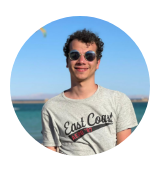
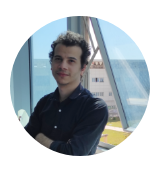
adding labels to charts and team to landing page

diff --git a/src/components/dashboard/dashboard.js b/src/components/dashboard/dashboard.js
@@ -150,30 +150,78 @@ function Dashboard({ auth, profile }) {
             </Grid>
             <Grid item xs={12} sm={12} md={12}>
               <ModernCard classStyle="style2">
+                <Typography
+                  className={classes.subHeading}
+                  variant="subtitle2"
+                  gutterBottom
+                  style={{ textAlign: "center" }}
+                >
+                  <span className={classes.info}>
+                    Number of Bookings(Online vs Phone) per Month
+                  </span>
+                </Typography>
                 <NumberOfBookingChart />{" "}
               </ModernCard>
             </Grid>
             <Grid item xs={12} sm={12} md={6}>
               <ModernCard classStyle="style2">
+                <Typography
+                  className={classes.subHeading}
+                  variant="subtitle2"
+                  gutterBottom
+                  style={{ textAlign: "center" }}
+                >
+                  <span className={classes.info}>
+                    Freqency of most Prescribed Medicine
+                  </span>
+                </Typography>
                 <PrescribedMedicineChart />
               </ModernCard>
             </Grid>
             <Grid item xs={12} sm={12} md={6}>
               <ModernCard classStyle="style2">
+                <Typography
+                  className={classes.subHeading}
+                  variant="subtitle2"
+                  gutterBottom
+                  style={{ textAlign: "center" }}
+                >
+                  <span className={classes.info}>
+                    Frequency of Patient Age Groups
+                  </span>
+                </Typography>
                 <PatientAgeGroupChart />{" "}
               </ModernCard>
             </Grid>
             <Grid item xs={12} sm={12} md={6}>
               <ModernCard classStyle="style2">
+              <Typography
+                  className={classes.subHeading}
+                  variant="subtitle2"
+                  gutterBottom
+                  style={{ textAlign: "center" }}
+                >
+                  <span className={classes.info}>
+                    Number of Patients per Month
+                  </span>
+                </Typography>
                 <NumberOfPatientsChart />{" "}
               </ModernCard>
             </Grid>
 
-         
-
             <Grid item xs={12} sm={12} md={6}>
               <ModernCard classStyle="style2">
-              <CommonDiseasesChart/>
+              <Typography
+                  className={classes.subHeading}
+                  variant="subtitle2"
+                  gutterBottom
+                  style={{ textAlign: "center" }}
+                >
+                  <span className={classes.info}>
+                    Common Diseases between Males and Females
+                  </span>
+                </Typography>
+                <CommonDiseasesChart />
               </ModernCard>
             </Grid>
             {/* <Grid item xs={12} sm={12} md={4}>

diff --git a/src/components/our-team/our-team.js b/src/components/our-team/our-team.js
@@ -12,7 +12,7 @@ import { ourTeamArray } from "./ourTeamArray";
 
 const useStyles = makeStyles((theme) => ({
   section: {
-    backgroundColor: "#fff",
+    backgroundColor: "#EEF9FE",
     paddingBottom: "7em",
   },
   heroContent: {
@@ -50,16 +50,17 @@ function OurTeam() {
             <Box fontWeight="fontWeightBold">Meet our team</Box>
           </Typography>
           <Typography className={classes.content} variant="body1" gutterBottom>
-            A platform that adapts to your needs.
+             A team that helps clinics develop and takes pride in
+            seeing wellness done right.
           </Typography>
         </Container>
 
         <Container maxWidth="lg" component="main">
-          <Grid container spacing={5} >
+          <Grid container spacing={5}>
             {ourTeamArray.map((tier) => (
-              <Grid item key={tier.id} xs={12} md={3}>
+              <Grid item key={tier.id} xs={12} md={4}>
                 <div className="card-team">
-                  <img src={`/images/team/1.png`} alt="our team" />
+                  <img src={`/images/team/${tier.id}.png`} alt="our team" />
 
                   <div className="container">
                     {" "}

diff --git a/src/components/our-team/ourTeamArray.js b/src/components/our-team/ourTeamArray.js
@@ -2,29 +2,34 @@ export const ourTeamArray = [
   {
     id: 1,
     title: "Mahmoud Sallam",
-    desc: "Full Stack Engineer",
+    desc: "Frontend Engineer & UX Designer",
     email: "m.sallam@nu.edu.eg",
   },
   {
     id: 2,
     title: "Yumna Ali",
     desc: "ML Engineer",
+    email: "yu.ali@nu.edu.eg",
   },
 
   {
     id: 3,
     title: "Eslam Mohamed",
     desc: "Mobile Developer",
+    email: "e.gharib@nu.edu.eg",
   },
   {
     id: 4,
     title: "Sarah Ashraf ",
-    desc: "UX Writer",
+    desc: "Scrum Master & UX Writer",
+    email: "s.ashraf@nu.edu.eg",
+
   },
   {
     id: 5,
     title: "Ibrahim Khaled",
     desc: "ML Engineer",
+    email: "i.saad@nu.edu.eg",
   },
 
 ];

diff --git a/src/components/our-team/our-team.css b/src/components/our-team/our-team.css
@@ -1,13 +1,14 @@
 .card-team {
     text-align: center;
 
+
     /* height: 310px; */
 }
 
 
 .card-team h3 {
-    font-weight: 600;
-    color: #094067;
+    font-weight: 500;
+    color: #6B6C6F;
     text-transform: uppercase;
     margin-bottom: 0;
 }
@@ -17,6 +18,7 @@
     font-weight: 500;
     font-size: 0.9rem;
     color:#1DB5E4;
+    margin-bottom: 0;
 
 }
 

diff --git a/src/components/dashboard/insights/number-of-booking-chart.js b/src/components/dashboard/insights/number-of-booking-chart.js
@@ -63,7 +63,7 @@ function NumberOfBookingChart() {
         >
           <CartesianGrid strokeDasharray="3 3" />
           <XAxis dataKey="name" />
-          <YAxis />
+          <YAxis  />
           <Tooltip />
           <Legend />
           <Line

diff --git a/src/pages/home.js b/src/pages/home.js
@@ -15,7 +15,7 @@ export default function HomePage() {
       <HeroArea />
       <WhyUs />
       <OurFeatures />
-      {/* <OurTeam/> */}
+      <OurTeam/>
       <FAQ/>
       <Footer />
     </>

diff --git a/src/components/our-features/our-features.css b/src/components/our-features/our-features.css
@@ -20,11 +20,16 @@
 .card p{
     color: #5f6c7b;
     font-weight: 400;
+    margin-bottom: 0;
 
 }
 .card img{
     max-width: 100%;
     width:120px;
+}
+
+.card a{
+    margin-top: 0;
 }
 
 
